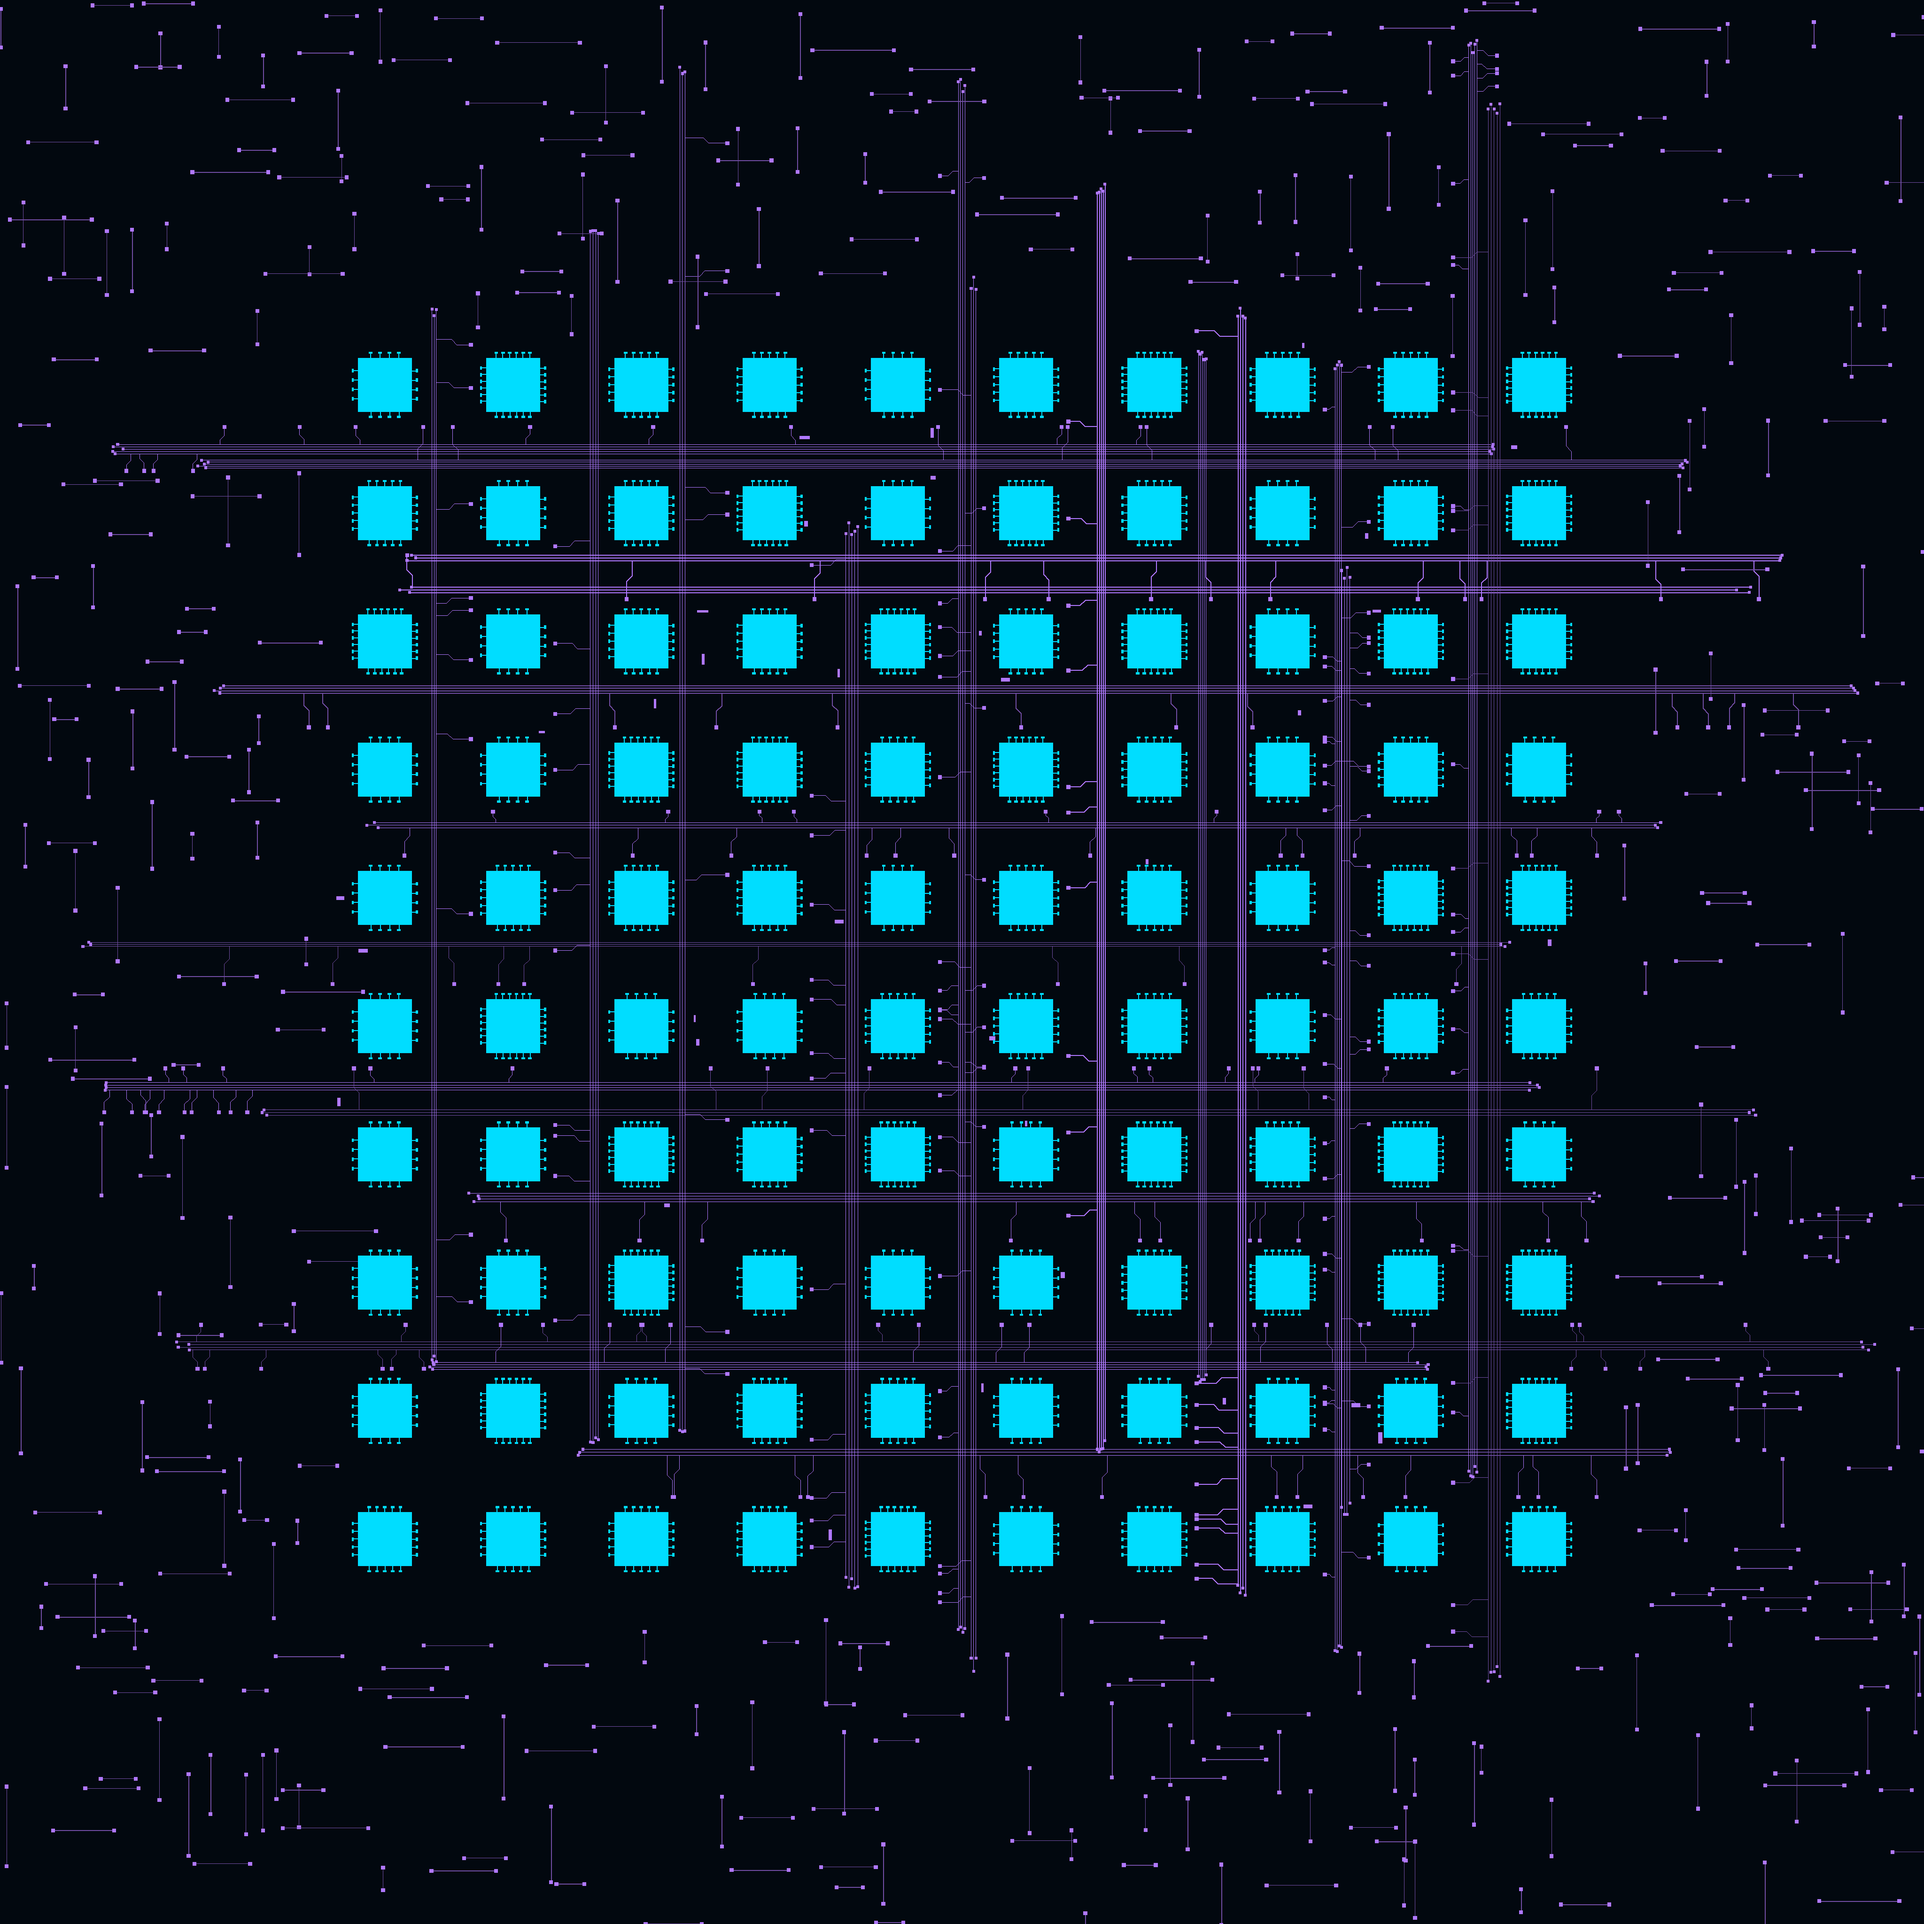
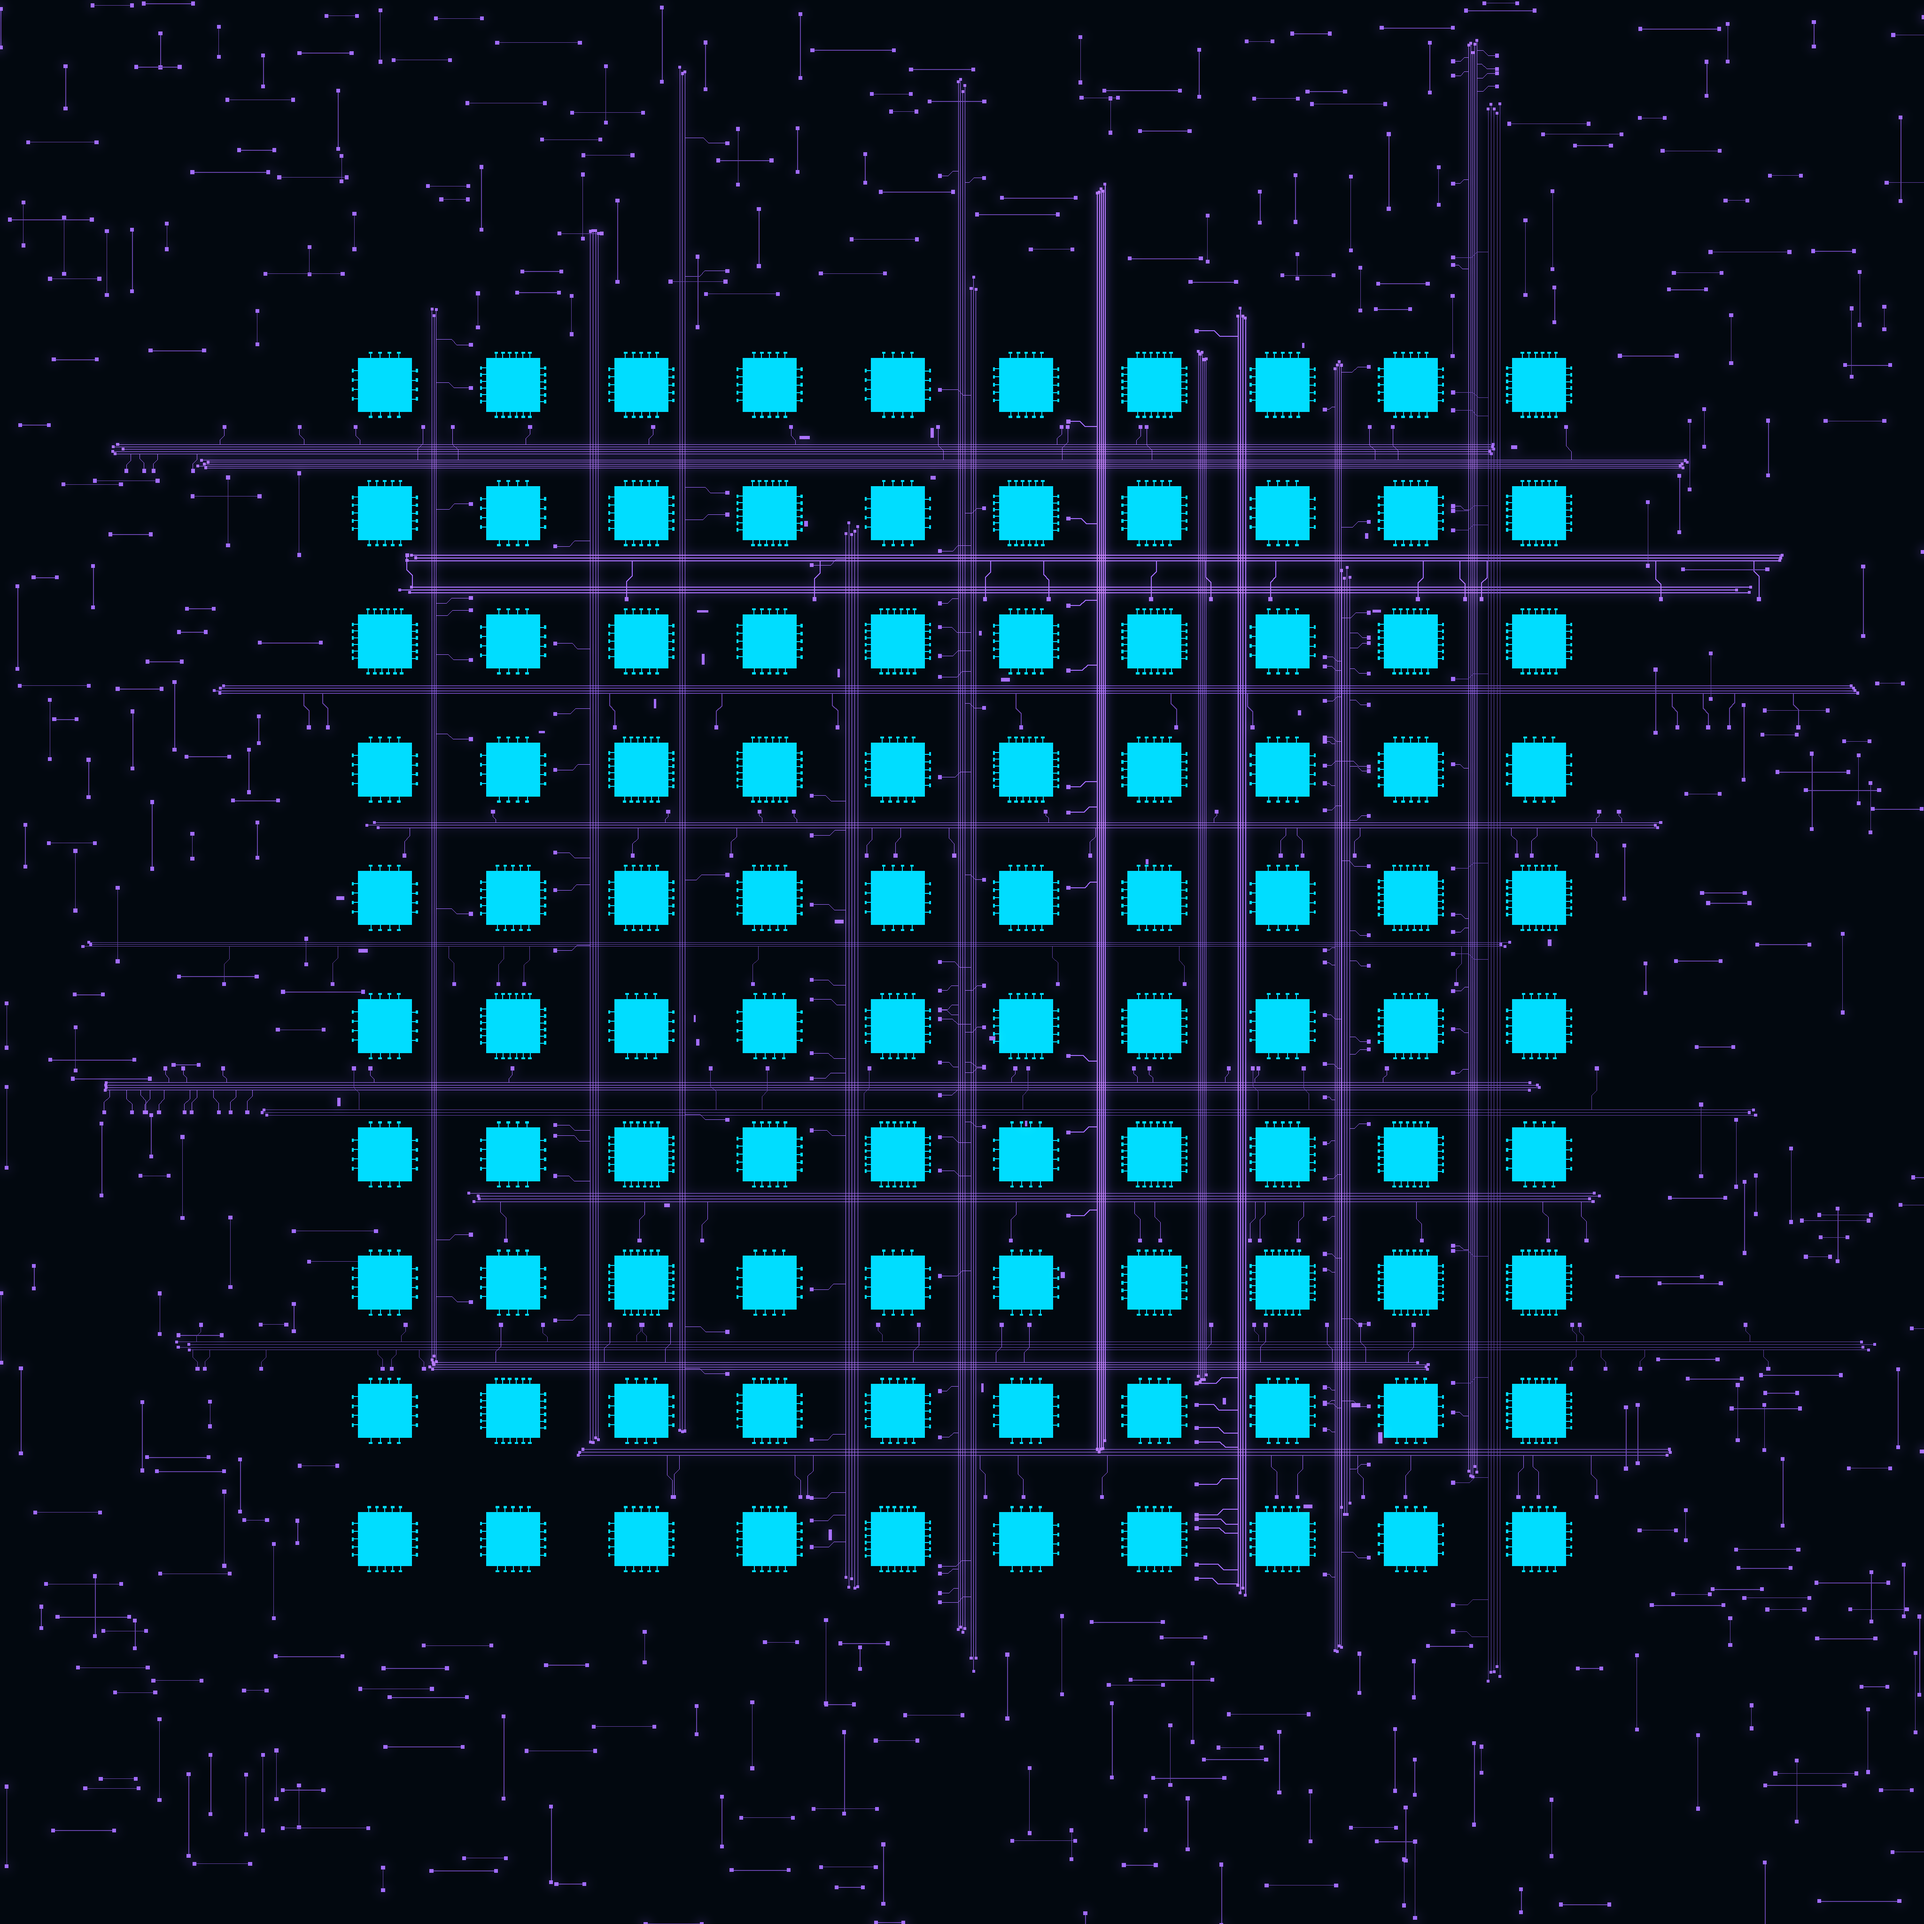
hackers: drop cyan lane beams, add baked glow halo on purple traces
Two changes per user feedback (2026-05-03):
- Lane beams removed: bright additive cyan corridor strips were
  overpowering the new purple PCB traces and pulling palette
  cyan-dominant. With the baked floor providing visible corridor
  work on its own, the runtime overlay was visual noise rather than
  signal.
- Glow halo around purple traces: static-bake architecture can't run
  a runtime bloom pass, so add_glow_around_color() in gen_floor.py
  fakes the neon-glow look — masks pixels matching --primary, paints
  them onto a separate layer, Gaussian-blurs that layer, and
  additively composites back onto the floor (ImageChops.add clamps
  at 255). Approximates emissive bloom at zero runtime cost. Floor
  PNG grew 132KB → 1.7MB (glow halos compress less well).

diff --git a/index.html b/index.html
@@ -2905,60 +2905,11 @@ function applyMixed3DLayout(opts) {
   // texture loaded above. Source: tools/gen_floor.py. Iterate by
   // re-running that script and refreshing the page.)
 
-  // Lane-light beams: bright additive cyan strips running along
-  // every inter-row corridor, in BOTH grid axes. Refs
-  // canyon_flythrough.png and tower_bases_low_angle.png show a
-  // distinctive thick floor-level glow line down each canyon —
-  // the most recognisable Hackers signature missing from the
-  // pre-2026-05-03 build. Floor sits at y=-0.08, pads at y≈0.04
-  // with depthTest:false renderOrder 999; beams at y=0.01 paint
-  // between them. Additive blend means overlapping perpendicular
-  // beams (cross-points at gap intersections) brighten naturally.
-  const beamMat = new T.MeshBasicMaterial({
-    color: new T.Color(O.world.tower_tint),
-    transparent: true,
-    opacity: 0.55,
-    blending: T.AdditiveBlending,
-    depthWrite: false,
-    // depthTest TRUE — beams correctly hide behind towers instead
-    // of striping through them. The earlier "stripes along corridor"
-    // problem was about beams disappearing in the OPEN corridor when
-    // seen through translucent glass; with the cells now densely
-    // covering tower faces, beams visible through tower glass read
-    // as visual noise overlapping the cell columns (user 2026-05-03
-    // "the glowing lines show through the towers in the way the
-    // glow square bottoms used to and it looks weird").
-    depthTest: true,
-    side: T.DoubleSide,
-  });
-  const beamWidth = 0.32;
-  // X-axis beams: one per inter-row gap (z-direction gaps), running
-  // the full field length along world X.
-  for (let i = 0; i < towerCount - 1; i++) {
-    const zCenter = (i + 0.5 - gridHalf) * spacing;
-    const beam = new T.Mesh(
-      new T.PlaneGeometry(fieldSize, beamWidth),
-      beamMat,
-    );
-    beam.rotation.x = -Math.PI / 2;
-    beam.position.set(0, 0.01, zCenter);
-    beam.frustumCulled = false;
-    beam.renderOrder = 998;
-    scene.add(beam);
-  }
-  // Z-axis beams: one per inter-column gap (x-direction gaps).
-  for (let i = 0; i < towerCount - 1; i++) {
-    const xCenter = (i + 0.5 - gridHalf) * spacing;
-    const beam = new T.Mesh(
-      new T.PlaneGeometry(beamWidth, fieldSize),
-      beamMat,
-    );
-    beam.rotation.x = -Math.PI / 2;
-    beam.position.set(xCenter, 0.01, 0);
-    beam.frustumCulled = false;
-    beam.renderOrder = 998;
-    scene.add(beam);
-  }
+  // (Lane-light beams removed 2026-05-03: the bright additive cyan
+  // corridor strips overpowered the new purple PCB floor traces and
+  // pulled the whole canyon palette toward cyan-dominant. With the
+  // baked floor providing visible corridor work on its own, the
+  // runtime additive overlay was visual noise rather than signal.)
 
   // Particle dust drifting through the field volume.
   let particleSystem = null;

diff --git a/tools/gen_floor.py b/tools/gen_floor.py
@@ -24,7 +24,7 @@ import argparse
 import random
 from pathlib import Path
 
-from PIL import Image, ImageDraw
+from PIL import Image, ImageChops, ImageDraw, ImageFilter
 
 
 class FloorSpec:
@@ -461,6 +461,60 @@ def bake(
     return img
 
 
+def add_glow_around_color(
+    img: Image.Image,
+    target_hex: str,
+    match_tolerance: int,
+    blur_px: int,
+    intensity: float,
+) -> Image.Image:
+    """Composite an additive Gaussian-blur glow halo around pixels that
+    approximately match target_hex.
+
+    Used for the purple PCB traces — the static-bake floor architecture
+    can't run a runtime bloom pass, so this fakes the neon-glow look
+    by painting a blurred copy of the target-color pixels back onto the
+    image with additive blend (ImageChops.add clamps at 255).
+    """
+    target = (
+        int(target_hex[1:3], 16),
+        int(target_hex[3:5], 16),
+        int(target_hex[5:7], 16),
+    )
+    rgb = img.convert("RGB")
+    r, g, b = rgb.split()
+    # Mask = pixels within match_tolerance of the target color on each
+    # channel. Multiplied together so all 3 conditions must hold.
+    r_mask = r.point(lambda v: 255 if abs(v - target[0]) <= match_tolerance else 0)
+    g_mask = g.point(lambda v: 255 if abs(v - target[1]) <= match_tolerance else 0)
+    b_mask = b.point(lambda v: 255 if abs(v - target[2]) <= match_tolerance else 0)
+    mask = ImageChops.multiply(ImageChops.multiply(r_mask, g_mask), b_mask)
+
+    # Paint target color wherever mask is set, black elsewhere.
+    glow_color = Image.new(
+        "RGB",
+        img.size,
+        (
+            int(target[0] * intensity),
+            int(target[1] * intensity),
+            int(target[2] * intensity),
+        ),
+    )
+    glow = Image.composite(glow_color, Image.new("RGB", img.size, (0, 0, 0)), mask)
+    glow = glow.filter(ImageFilter.GaussianBlur(blur_px))
+
+    # Additive composite onto the original (clamps at 255 → bright halo
+    # around traces, no effect on dark floor away from purple).
+    if img.mode == "RGBA":
+        added = ImageChops.add(img.convert("RGB"), glow)
+        out = Image.merge(
+            "RGBA",
+            [*added.split(), img.getchannel("A")],
+        )
+        return out
+    return ImageChops.add(img, glow)
+
+
 def main() -> None:
     p = argparse.ArgumentParser(description=__doc__)
     p.add_argument("--tower-count", type=int, default=10)
@@ -498,6 +552,13 @@ def main() -> None:
         f"px/unit={spec.px_per_unit:.2f}, out={args.out}"
     )
     img = bake(spec, args.bg, args.primary, args.accent, args.tower_color, args.seed)
+    img = add_glow_around_color(
+        img,
+        target_hex=args.primary,
+        match_tolerance=60,
+        blur_px=int(spec.px_per_unit * 0.5),
+        intensity=0.7,
+    )
     args.out.parent.mkdir(parents=True, exist_ok=True)
     img.save(args.out, optimize=True)
     print(f"wrote {args.out} ({args.out.stat().st_size / 1024:.0f} KB)")
